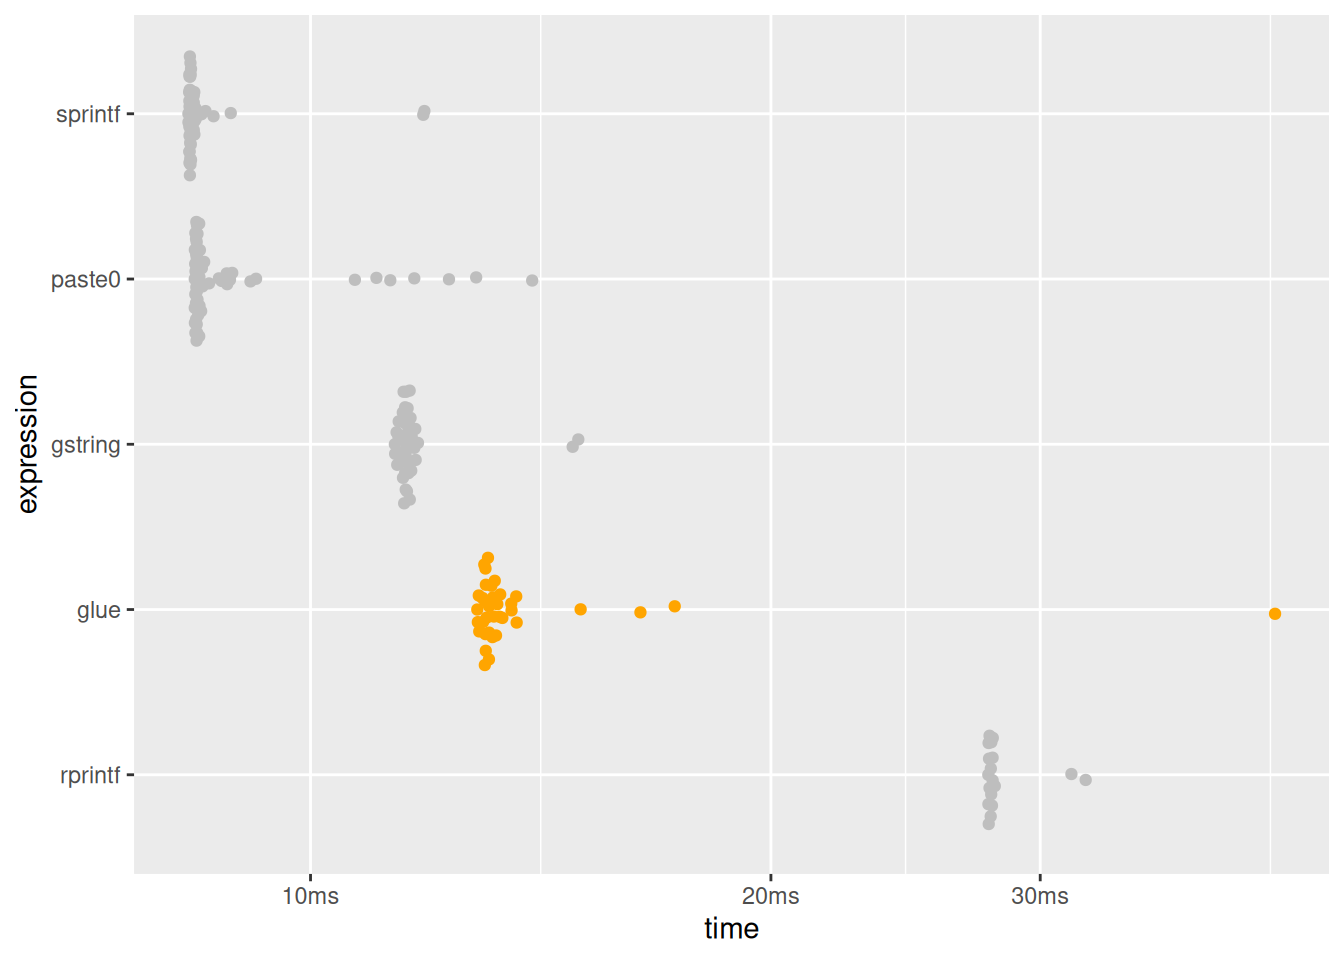
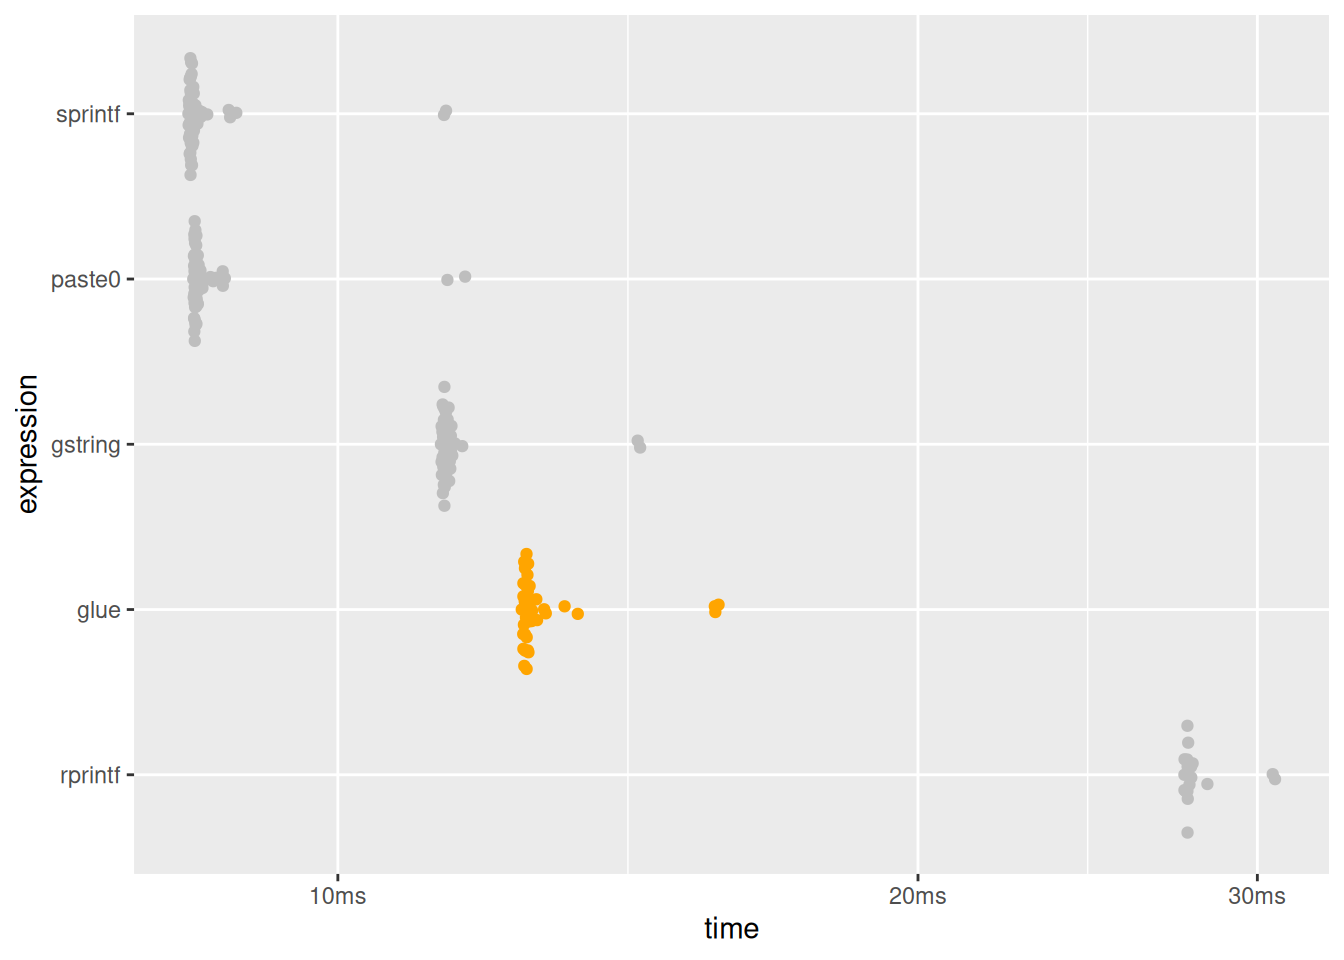
Deploying to gh-pages from @ tidyverse/glue@ace1155c2326a64478cdbb4795d44cb3fec38a9c 🚀

diff --git a/dev/articles/speed.html b/dev/articles/speed.html
@@ -148,11 +148,11 @@
 <span><span class="co">#&gt; # A tibble: 5 × 6</span></span>
 <span><span class="co">#&gt;   expression      min   median `itr/sec` mem_alloc `gc/sec`</span></span>
 <span><span class="co">#&gt;   &lt;bch:expr&gt; &lt;bch:tm&gt; &lt;bch:tm&gt;     &lt;dbl&gt; &lt;bch:byt&gt;    &lt;dbl&gt;</span></span>
-<span><span class="co">#&gt; 1 sprintf    742.03ns 791.16ns  1174045.        0B     0   </span></span>
-<span><span class="co">#&gt; 2 paste0       1.42µs   1.57µs   603452.        0B     0   </span></span>
-<span><span class="co">#&gt; 3 glue        93.77µs 101.22µs     9443.  141.73KB    10.3 </span></span>
-<span><span class="co">#&gt; 4 gstring    225.27µs 240.31µs     4051.    2.46MB     6.12</span></span>
-<span><span class="co">#&gt; 5 rprintf    279.07µs 292.74µs     3344.  504.02KB     4.05</span></span>
+<span><span class="co">#&gt; 1 sprintf       761ns  802.1ns  1161305.        0B     0   </span></span>
+<span><span class="co">#&gt; 2 paste0        1.4µs   1.51µs   630883.        0B     0   </span></span>
+<span><span class="co">#&gt; 3 glue         92.9µs  97.67µs     9733.  141.73KB    10.3 </span></span>
+<span><span class="co">#&gt; 4 gstring     217.6µs 230.77µs     4227.    2.46MB     6.10</span></span>
+<span><span class="co">#&gt; 5 rprintf     275.2µs 286.59µs     3422.  504.02KB     4.05</span></span>
 <span></span>
 <span><span class="co"># plotting function defined in a hidden chunk</span></span>
 <span><span class="fu">plot_comparison</span><span class="op">(</span><span class="va">simple</span><span class="op">)</span></span></code></pre></div>
@@ -189,11 +189,11 @@
 <span><span class="co">#&gt; # A tibble: 5 × 6</span></span>
 <span><span class="co">#&gt;   expression      min   median `itr/sec` mem_alloc `gc/sec`</span></span>
 <span><span class="co">#&gt;   &lt;bch:expr&gt; &lt;bch:tm&gt; &lt;bch:tm&gt;     &lt;dbl&gt; &lt;bch:byt&gt;    &lt;dbl&gt;</span></span>
-<span><span class="co">#&gt; 1 sprintf      8.32ms   8.35ms     119.    781.3KB     4.19</span></span>
-<span><span class="co">#&gt; 2 paste0        8.4ms   8.44ms     113.    781.3KB     4.19</span></span>
-<span><span class="co">#&gt; 3 gstring     11.35ms  11.54ms      86.6    1.53MB     4.23</span></span>
-<span><span class="co">#&gt; 4 glue        12.85ms  13.08ms      75.8    2.29MB     6.89</span></span>
-<span><span class="co">#&gt; 5 rprintf     27.74ms  27.85ms      35.9    3.05MB     4.49</span></span>
+<span><span class="co">#&gt; 1 sprintf      8.37ms    8.4ms     119.    781.3KB     4.16</span></span>
+<span><span class="co">#&gt; 2 paste0       8.41ms   8.44ms     118.    781.3KB     4.14</span></span>
+<span><span class="co">#&gt; 3 gstring     11.31ms  11.37ms      87.8    1.53MB     4.18</span></span>
+<span><span class="co">#&gt; 4 glue        12.46ms  12.54ms      79.4    2.29MB     6.62</span></span>
+<span><span class="co">#&gt; 5 rprintf      27.5ms   27.6ms      36.2    3.05MB     4.52</span></span>
 <span></span>
 <span><span class="co"># plotting function defined in a hidden chunk</span></span>
 <span><span class="fu">plot_comparison</span><span class="op">(</span><span class="va">vectorized</span><span class="op">)</span></span></code></pre></div>

diff --git a/dev/articles/speed.md b/dev/articles/speed.md
@@ -65,11 +65,11 @@ simple |>
 #> # A tibble: 5 × 6
 #>   expression      min   median `itr/sec` mem_alloc `gc/sec`
 #>   <bch:expr> <bch:tm> <bch:tm>     <dbl> <bch:byt>    <dbl>
-#> 1 sprintf    742.03ns 791.16ns  1174045.        0B     0   
-#> 2 paste0       1.42µs   1.57µs   603452.        0B     0   
-#> 3 glue        93.77µs 101.22µs     9443.  141.73KB    10.3 
-#> 4 gstring    225.27µs 240.31µs     4051.    2.46MB     6.12
-#> 5 rprintf    279.07µs 292.74µs     3344.  504.02KB     4.05
+#> 1 sprintf       761ns  802.1ns  1161305.        0B     0   
+#> 2 paste0        1.4µs   1.51µs   630883.        0B     0   
+#> 3 glue         92.9µs  97.67µs     9733.  141.73KB    10.3 
+#> 4 gstring     217.6µs 230.77µs     4227.    2.46MB     6.10
+#> 5 rprintf     275.2µs 286.59µs     3422.  504.02KB     4.05
 
 # plotting function defined in a hidden chunk
 plot_comparison(simple)
@@ -125,11 +125,11 @@ vectorized |>
 #> # A tibble: 5 × 6
 #>   expression      min   median `itr/sec` mem_alloc `gc/sec`
 #>   <bch:expr> <bch:tm> <bch:tm>     <dbl> <bch:byt>    <dbl>
-#> 1 sprintf      8.32ms   8.35ms     119.    781.3KB     4.19
-#> 2 paste0        8.4ms   8.44ms     113.    781.3KB     4.19
-#> 3 gstring     11.35ms  11.54ms      86.6    1.53MB     4.23
-#> 4 glue        12.85ms  13.08ms      75.8    2.29MB     6.89
-#> 5 rprintf     27.74ms  27.85ms      35.9    3.05MB     4.49
+#> 1 sprintf      8.37ms    8.4ms     119.    781.3KB     4.16
+#> 2 paste0       8.41ms   8.44ms     118.    781.3KB     4.14
+#> 3 gstring     11.31ms  11.37ms      87.8    1.53MB     4.18
+#> 4 glue        12.46ms  12.54ms      79.4    2.29MB     6.62
+#> 5 rprintf      27.5ms   27.6ms      36.2    3.05MB     4.52
 
 # plotting function defined in a hidden chunk
 plot_comparison(vectorized)
